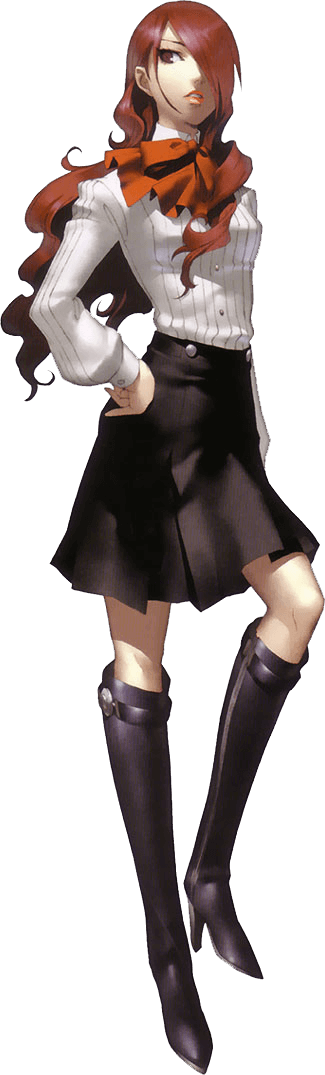
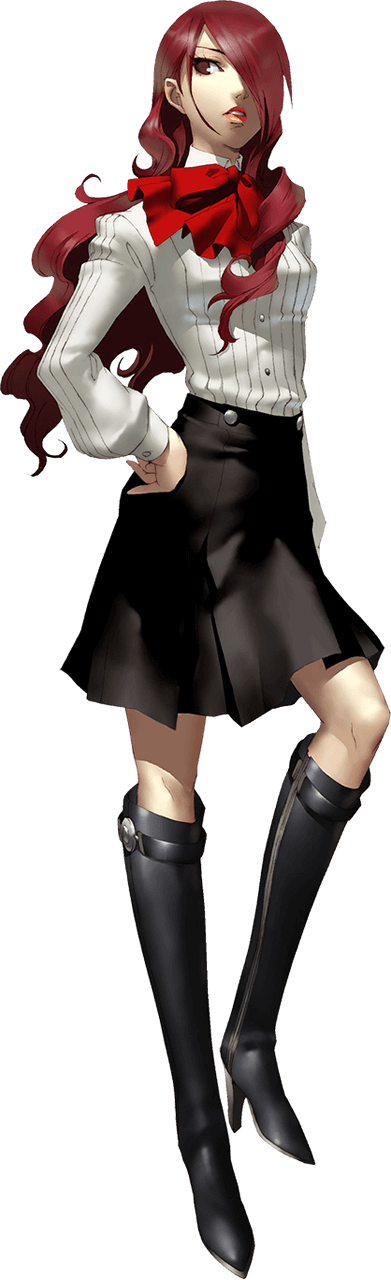
add new persona images
adds new character renders from persona 1, 2, and 3.

diff --git a/resources/images-list.min.js b/resources/images-list.min.js
@@ -1,1 +1,1 @@
-PS_Cover.Images.host="resources/images/",PS_Cover.Images.list={batman:{thumb:"batman-logo.png",images:["batman-00.png","batman-01.png","batman-02.png","batman-03.png","batman-04.png","batman-05.png","batman-06.png","batman-08.png","batman-09.png","batman-11.png","batman-12.png","catwoman-00.png","catwoman-01.png","catwoman-02.png","catwoman-03.png","harley_quinn-00.png","harley_quinn-01.png","harley_quinn-02.png","joker-00.png","joker-01.png","joker-02.png","joker-03.png","batmanw-00.jpg","batmanw-01.jpg","batmanw-02.jpg","batmanw-03.jpg","batmanw-04.jpg","batmanw-05.jpg","batmanw-06.jpg","batmanw-07.jpg","batmanw-08.jpg","batmanw-09.jpg","batmanw-10.jpg","batmanw-11.jpg","batmanw-12.jpg","batmanw-13.jpg","batmanw-14.jpg","batmanw-15.jpg","batmanw-16.jpg","batmanw-17.jpg","batmanw-18.jpg","batmanw-19.jpg","batmanw-20.jpg","batmanw-21.jpg","batmanw-22.jpg","batmanw-23.jpg","batmanw-24.jpg","batmanw-25.jpg","batmanw-26.jpg","batmanw-27.jpg","batmanw-29.jpg","batmanw-30.jpg"]},battlefield:{thumb:"bf-logo.png",images:["bf-00.png","bf-01.png","bf-02.png","bf-03.png","bf-05.png","bf-06.png","bf-07.png","bf-08.png","bf-09.png","bf-10.png","bf-11.png","bf-12.png","bfw-00.jpg","bfw-01.jpg","bfw-02.jpg","bfw-03.jpg","bfw-04.png","bfw-05.png","bfw-06.jpg","bfw-07.jpg","bfw-08.jpg","bfw-09.jpg","bfw-10.jpg","bfw-11.jpg","bfw-12.jpg","bfw-13.jpg","bfw-14.jpg","bfw-15.jpg","bfw-16.jpg","bfw-17.jpg","bfw-18.jpg"]},bloodborne:{thumb:"bb_logo.png",images:["bb-00.png","bb-01.png","bb-02.png","bb-03.png","bb-04.png","bb-05.png","bb-06.png","bb-07.png","bb-08.png","bb-09.png","bb-10.png","bb-11.png","bb-12.png","bb-13.png","bb-14.png","bb-15.png","bb-16.png","bb-17.png","bb-18.png","bb-19.png","bbw-00.jpg","bbw-01.jpg","bbw-02.jpg","bbw-03.jpg","bbw-04.jpg","bbw-05.jpg","bbw-06.jpg","bbw-07.jpg","bbw-08.jpg","bbw-09.jpg","bbw-10.jpg","bbw-12.jpg","bbw-13.jpg","bbw-14.jpg","bbw-15.jpg","bbw-16.jpg","bbw-17.jpg","bbw-18.jpg","bbw-19.jpg","bbw-20.jpg","bbw-22.jpg","bbw-23.jpg","bbw-24.jpg","bbw-25.jpg","bbw-26.jpg","bbw-28.jpg","bbw-29.jpg","bbw-31.jpg"]},"final-fantasy":{thumb:"ff-logo.png",images:["ff1-00.png","ff1-01.png","firrion-00.png","firrion-01.png","firrion-02.png","cloudofdarkness-00.png","kain-00.png","cecil-00.png","cecil-01.png","cecil-02.png","rosa-00.png","rydia-00.png","rydia-01.png","ff4-00.png","bartz-00.png","bartz-01.png","gilgamesh-ff5-00.png","gilgamesh-ff5-01.png","exdeath-00.png","terra-00.png","terra-01.png","terra-02.png","terra-03.png","terra-04.png","terra-05.png","kefka-00.png","kefka-01.png","kefka-02.png","ff6-00.png","aerith-00.png","aerith-01.png","aerith-02.png","aerith-03.png","barret-00.png","barret-01.png","caitsith-00.png","caitsith-01.png","cid-00.png","cid-01.png","cloud-00.png","cloud-01.png","cloud-02.png","cloud-03.png","cloud-04.png","cloud-05.png","cloud-06.png","genesis-00.png","red-00.png","sephiroth-00.png","sephiroth-01.png","sephiroth-02.png","sephiroth-03.png","sephiroth-04.png","tifa-00.png","tifa-01.png","tifa-02.png","tifa-03.png","tifa-04.png","tifa-05.png","vincent-00.png","vincent-01.png","vincent-02.png","vincent-03.png","vincent-04.png","yuffie-00.png","yuffie-01.png","yuffie-02.png","yuffie-03.png","zack-00.png","zack-01.png","zack-02.png","zack-03.png","zack-04.png","zack-05.png","ff7-00.png","ff7-01.png","ff7-02.png","seifer-00.png","squall-00.png","squall-01.png","squall-02.png","squall-03.png","squall-04.png","squall-05.png","squall-06.png","squall-07.png","squall-08.png","ff8-00.png","ff8-01.png","ff8-02.png","garnet-00.png","kuja-00.png","kuja-01.png","kuja-02.png","vivi-00.png","zidane-00.png","zidane-01.png","zidane-02.png","zidane-03.png","zidane-04.png","zidane-05.png","zidane-06.png","ff9-00.png","auron-00.png","auron-01.png","auron-02.png","auron-03.png","jecht-00.png","jecht-01.png","kimahri-00.png","lulu-00.png","lulu-01.png","lulu-02.png","lulu-03.png","paine-00.png","paine-01.png","paine-02.png","paine-03.png","paine-04.png","rikku-00.png","rikku-01.png","rikku-02.png","rikku-03.png","rikku-04.png","seymour-00.png","tidus-00.png","tidus-01.png","tidus-02.png","tidus-03.png","tidus-04.png","tidus-05.png","wakka-00.png","wakka-01.png","yuna-00.png","yuna-01.png","yuna-02.png","yuna-03.png","yuna-04.png","yuna-05.png","yuna-06.png","yuna-07.png","yuna-08.png","ff11-00.png","ff11-01.png","ff11-02.png","ff11-03.png","ff11-04.png","ff11-05.png","ff11-06.png","ashe-00.png","ashe-01.png","ashe-02.png","balthier-00.png","basch-00.png","fran-00.png","fran-01.png","fran-02.png","gabranth-00.png","larsa-00.png","penelo-00.png","penelo-01.png","rasler-00.png","vaan-00.png","vaan-01.png","vaan-02.png","vayne-00.png","ff12-00.png","ff12-01.png","ff12-02.png","caius-00.png","fang-00.png","fang-01.png","hope-00.png","hope-01.png","hope-02.png","hope-03.png","hope-04.png","hope-05.png","jihl-00.png","lightning-00.png","lightning-01.png","lightning-02.png","lightning-03.png","lightning-04.png","lightning-05.png","lightning-06.png","lightning-07.png","lightning-08.png","lightning-09.png","lightning-10.png","lightning-11.png","lightning-12.png","lightning-13.png","lightning-14.png","lightning-15.png","lightning-16.png","lightning-17.png","lumina-00.png","noel-00.png","noel-01.png","noel-02.png","sazh-00.png","serah-00.png","serah-01.png","serah-02.png","serah-03.png","serah-04.png","serah-05.png","serah-06.png","serah-07.png","serah-08.png","serah-09.png","snow-00.png","snow-01.png","snow-02.png","snow-03.png","snow-04.png","vanille-00.png","vanille-01.png","vanille-02.png","vanille-03.png","vanille-04.png","ff13-00.png","ff13-01.png","ff14-00.png","ff14-01.png","ff14-02.png","ff14-03.png","ff14-04.png","ff14-05.png","ff14-06.png","ff14-07.png","ff14-08.png","ff14-09.png","ardyn-00.png","ardyn-01.png","noctis-01.png","noctis-02.png","noctis-03.png","noctis-04.png","noctis-05.png","noctis-06.png","ff15-00.png","ff15-01.png","ace-00.png","ace-01.png","caetuna-00.png","cater-00.png","cater-01.png","cid-t0-00.png","cinque-00.png","deuce-00.png","eight-00.png","gilgamesh-t0-00.png","jack-00.png","king-00.png","machina-00.png","nimbus-00.png","nine-00.png","queen-00.png","rem-00.png","seven-00.png","seven-01.png","shiva-00.png","sice-00.png","sice-01.png","trey-00.png","trey-01.png","type0-00.png","ff3w-00.jpg","ff4w-00.jpg","ff5w-00.jpg","ff5w-01.png","ff5w-02.jpg","ff6w-00.jpg","ff6w-01.jpg","ff6w-02.jpg","ff6w-03.jpg","ff7w-00.jpg","ff7w-01.jpg","ff7w-02.jpg","ff7w-03.jpg","ff7w-04.jpg","ff7w-05.jpg","ff7w-06.jpg","ff8w-00.jpg","ff8w-01.jpg","ff8w-02.jpg","ff8w-03.jpg","ff8w-04.jpg","ff8w-05.jpg","ff8w-06.jpg","ff8w-07.jpg","ff8w-08.jpg","ff8w-09.jpg","ff8w-10.jpg","ff8w-11.jpg","ff9w-00.jpg","ff9w-01.jpg","ff9w-02.jpg","ff9w-03.jpg","ff9w-04.jpg","ff9w-05.jpg","ff9w-06.jpg","ff9w-07.jpg","ff9w-08.jpg","ff9w-09.jpg","ff10w-00.jpg","ff10w-01.jpg","ff10w-02.jpg","ff10w-03.jpg","ff10w-04.jpg","ff10w-05.jpg","ff10w-06.jpg","ff10w-07.jpg","ff10w-08.jpg","ff10w-09.jpg","ff10w-10.jpg","ff10w-11.jpg","ff10w-12.jpg","ff10w-13.jpg","ff10w-14.jpg","ff10w-15.jpg","ff11w-00.jpg","ff11w-01.jpg","ff11w-02.jpg","ff12w-00.jpg","ff12w-01.jpg","ff12w-02.jpg","ff12w-03.jpg","ff12w-04.jpg","ff12w-05.jpg","ff12w-06.jpg","ff12w-07.jpg","ff12w-08.jpg","ff12w-09.jpg","ff12w-10.jpg","ff12w-11.jpg","ff13w-00.jpg","ff13w-01.jpg","ff13w-02.jpg","ff13w-03.jpg","ff13w-04.jpg","ff13w-05.jpg","ff13w-06.jpg","ff13w-07.jpg","ff13w-08.jpg","ff13w-09.jpg","ff13w-10.jpg","ff13w-11.jpg","ff13w-12.jpg","ff14w-00.jpg","ff14w-01.jpg","ff14w-02.jpg","ff14w-03.jpg","ff14w-04.jpg","ff14w-05.jpg","ff14w-06.jpg","ff14w-07.jpg","ff14w-08.jpg","ff14w-09.jpg","ff14w-10.jpg","ff14w-11.jpg","ff14w-12.jpg","ff15w-00.jpg","ff15w-01.jpg","ff15w-02.jpg","ff15w-03.jpg","ff15w-04.jpg","ff15w-05.jpg","ff15w-06.jpg","ff15w-07.jpg","ff15w-08.jpg","ff15w-09.jpg","ff15w-10.jpg","ff15w-11.jpg","ff15w-12.jpg","type0w-00.jpg","type0w-01.jpg","type0w-02.jpg","type0w-03.jpg","type0w-04.jpg","type0w-05.jpg","type0w-06.jpg","type0w-07.png","type0w-08.jpg","type0w-09.jpg","type0w-10.jpg","type0w-11.jpg","type0w-12.jpg","type0w-13.jpg","ffdw-00.jpg","ffdw-01.jpg","ffdw-02.jpg","ffdw-03.jpg","fftw-00.jpg","fftw-01.jpg"]},"god-of-war":{thumb:"gow-logo.png",images:["kratos-00.png","kratos-01.png","kratos-02.png","kratos-03.png","kratos-04.png","kratos-05.png","kratos-06.png","kratos-07.png","kratos-08.png","kratos-09.png","kratos-10.png","kratos-11.png","gow-00.jpg","gow-01.jpg","gow-02.jpg","gow-03.jpg","gow-04.jpg","gow-05.jpg","gow-06.jpg","gow-07.jpg","gow-08.jpg","gow-09.jpg","gow-10.jpg","gow-11.jpg","gow-12.jpg","gow-13.jpg"]},"gran-turismo":{thumb:"gt-logo.png",images:["gt-00.png","gt-01.png","gt-02.png","gt-03.png","gt-04.png","gt-05.png","gt-06.png","gt-07.png","gt-08.png","gtw-00.jpg","gtw-01.jpg","gtw-02.jpg","gtw-03.jpg","gtw-04.jpg","gtw-05.jpg","gtw-06.jpg","gtw-07.jpg","gtw-08.jpg","gtw-09.jpg","gtw-10.jpg","gtw-11.jpg","gtw-12.jpg","gtw-13.jpg","gtw-14.jpg","gtw-15.jpg","gtw-16.jpg","gtw-17.jpg","gtw-18.jpg","gtw-19.jpg"]},"gravity-rush":{thumb:"gr-logo.png",images:["dusty-00.png","kat-00.png","kat-01.png","kat-02.png","kat-03.png","kat-04.png","kat-05.png","kat-06.png","kat-07.png","kat-08.png","kat-09.png","kat-10.png","kat-11.png","kat-12.png","raven-00.png","raven-01.png","raven-03.png","syd-00.png","syd-01.png","yunica-00.png","yunica-01.png","gr-00.png","grw-00.jpg","grw-01.jpg","grw-02.jpg","grw-03.jpg","grw-06.jpg","grw-07.jpg","grw-09.jpg","grw-11.jpg","grw-12.jpg","grw-14.jpg","grw-15.jpg","grw-16.jpg","grw-17.jpg","grw-18.jpg","grw-19.jpg","grw-20.jpg"]},infamous:{thumb:"if-logo.png",images:["cole-00.png","cole-01.png","cole-02.png","cole-03.png","cole-04.png","delsin-00.png","delsin-01.png","delsin-02.png","fetch-00.png","fetch-01.png","nix-00.png","reaper-00.png","if-00.jpg","if-01.jpg","if-02.jpg","if-03.jpg","if-04.jpg","if-05.jpg","if-06.jpg","if-07.jpg","if-08.jpg","if-09.jpg","if2-00.jpg","if3-00.jpg","if3-01.jpg","if3-02.jpg","if3-03.jpg","if3-04.jpg"]},killzone:{thumb:"kz-logo.png",images:["kz-00.png","kz-01.png","kz-02.png","kz-03.png","kz-04.png","kz-05.png","kz-06.png","kz-07.png","kz-08.png","kz-09.png","kz-10.png","kz-11.png","kz-12.png","kz-13.png","kz-14.png","kz-15.png","kz-16.png","kz-17.png","kz-18.png","kz-19.png","kz-20.png","kzw-00.jpg","kzw-01.jpg","kzw-02.jpg","kzw-04.jpg","kzw-05.jpg","kzw-06.jpg","kzw-07.jpg","kzw-08.jpg","kzw-09.jpg","kzw-10.jpg","kzw-11.jpg","kzw-12.jpg","kzw-13.jpg","kzw-14.jpg","kzw-15.jpg","kzw-16.jpg","kzw-17.jpg","kzw-18.jpg","kzw-19.jpg","kzw-20.jpg"]},"little-big-planet":{thumb:"lbp-logo.png",images:["lbp-00.png","lbp-01.png","lbp-02.png","lbp-03.png","lbp-04.png","lbp-05.png","lbp-06.png","lbp-07.png","lbp-08.png","lbp-09.png","lbp-10.png","lbp-11.png","lbp-12.png","lbp-13.png","lbp-14.png","lbp-15.png","lbp-16.png","lbp-17.png","lbp-18.png","lbpw-00.jpg","lbpw-01.jpg","lbpw-02.jpg","lbpw-03.jpg","lbpw-04.jpg","lbpw-05.jpg","lbpw-06.jpg","lbpw-07.jpg","lbpw-08.jpg","lbpw-09.jpg","lbpw-10.jpg"]},persona:{thumb:"persona-logo.png",images:["aigis-00.png","aigis-01.png","aigis-02.png","aigis-03.png","aigis-04.png","aigis-05.png","aigis-06.png","aigis-07.png","aigis-08.png","akihiko-00.png","chie-00.png","elizabeth-00.png","elizabeth-01.png","elizabeth-02.png","femc-00.png","izanagi-00.png","izanagi-01.png","izanagi-02.png","minato-00.png","mitsuru-00.png","mitsuru-01.png","mitsuru-02.png","yu-00.png","yu-01.png","yu-02.png","yu-03.png","yukari-00.png","misc-00.png","misc-01.png","p2w-00.jpg","p2w-01.jpg","p2w-02.jpg","p2w-03.jpg","p2w-04.jpg","p2w-05.jpg","p2w-06.jpg","p2w-07.jpg","p2w-08.jpg","p2w-09.jpg","p3w-00.jpg","p3w-01.jpg","p3w-02.jpg","p3w-03.jpg","p3w-04.jpg","p3w-05.png","p3w-06.jpg","p3w-07.jpg","p3w-08.png","p3w-09.jpg","p3w-10.jpg","p3w-11.jpg","p3w-12.jpg","p3w-13.png","p3w-14.jpg","p3w-15.jpg","p3w-16.jpg","p3w-17.jpg","p3w-18.jpg","p4w-00.jpg","p4w-01.jpg","p4w-03.jpg","p4w-04.jpg","p4w-05.jpg","p4w-06.jpg","p4w-07.jpg","p4w-08.jpg","p4w-09.jpg","p4w-10.jpg","p4w-11.jpg","p4w-12.jpg","p4w-13.jpg","p4w-15.jpg","p4w-16.jpg","p5w-00.jpg","p5w-01.png","p5w-02.jpg","p5w-03.jpg","p5w-04.jpg","p5w-05.jpg","p5w-06.jpg","p5w-07.jpg","p5w-08.jpg","p5w-09.jpg","p5w-10.jpg","p5w-11.jpg","p5w-12.jpg","p5w-13.jpg","p5w-14.jpg","p5w-15.jpg","p5w-16.jpg","p5w-17.jpg","p5w-18.jpg","p5w-19.jpg","p5w-20.jpg","p5w-21.jpg","p5w-22.jpg","p5w-23.jpg","p5w-24.jpg","p5w-25.jpg","p5w-26.jpg","p5w-27.jpg","p5w-28.jpg"]},"ratchet-and-clank":{thumb:"rac-logo.png",images:["ace-00.png","al-00.png","alister-01.png","clank-00.png","clank-01.png","clank-02.png","clank-03.png","courtney-00.png","courtney-01.png","merc-00.png","nefarious-00.png","nefarious-01.png","nefarious-02.png","qwark-00.png","qwark-01.png","qwark-02.png","qwark-03.png","qwark-04.png","ratchet-00.png","ratchet-02.png","ratchet-03.png","ratchet-04.png","ratchet-05.png","ratchet-06.png","ratchet-07.png","ratchet-08.png","skid-00.png","racw-00.jpg","racw-01.jpg","racw-02.jpg","racw-03.jpg","racw-04.jpg","racw-05.jpg","racw-06.jpg","racw-07.jpg","racw-08.jpg","racw-09.jpg","racw-10.jpg","racw-11.jpg","racw-12.jpg","racw-13.jpg","racw-14.jpg","racw-15.jpg","racw-16.jpg","racw-17.jpg","racw-18.jpg","racw-19.jpg"]},"street-fighter":{thumb:"sf-logo.png",images:["chun_li-00.png","chun_li-01.png","chun_li-02.png","chun_li-03.png","cody-00.png","juri-00.png","kazuya-00.png","ken-00.png","ken-01.png","ken-02.png","ken-03.png","ken-04.png","q-00.png","ryu-00.png","ryu-01.png","ryu-02.png","ryu-03.png","ryu-04.png","ryu-05.png","yang-00.png","yun-00.png","sfw-00.jpg","sfw-01.jpg","sfw-02.jpg","sfw-03.jpg","sfw-04.jpg","sfw-05.jpg","sfw-06.jpg","sfw-07.jpg","sfw-08.jpg","sfw-09.jpg","sfw-10.jpg","sfw-11.jpg","sfw-12.jpg","sfw-13.jpg","sfw-14.jpg"]},uncharted:{thumb:"uc-logo.png",images:["chloe-00.png","drake-00.png","drake-01.png","drake-02.png","eddy-00.png","elena-00.png","elena-01.png","flynn-00.png","sully-00.png","uc-00.jpg","uc2-00.jpg","uc2-01.jpg","uc2-02.jpg","uc3-00.jpg","uc3-01.jpg","uc3-02.jpg","uc4-00.jpg","uc4-01.jpg","uc4-02.jpg","uc4-03.jpg","uc4-04.jpg"]}};
+PS_Cover.Images.host="resources/images/",PS_Cover.Images.list={batman:{thumb:"batman-logo.png",images:["batman-00.png","batman-01.png","batman-02.png","batman-03.png","batman-04.png","batman-05.png","batman-06.png","batman-08.png","batman-09.png","batman-11.png","batman-12.png","catwoman-00.png","catwoman-01.png","catwoman-02.png","catwoman-03.png","harley_quinn-00.png","harley_quinn-01.png","harley_quinn-02.png","joker-00.png","joker-01.png","joker-02.png","joker-03.png","batmanw-00.jpg","batmanw-01.jpg","batmanw-02.jpg","batmanw-03.jpg","batmanw-04.jpg","batmanw-05.jpg","batmanw-06.jpg","batmanw-07.jpg","batmanw-08.jpg","batmanw-09.jpg","batmanw-10.jpg","batmanw-11.jpg","batmanw-12.jpg","batmanw-13.jpg","batmanw-14.jpg","batmanw-15.jpg","batmanw-16.jpg","batmanw-17.jpg","batmanw-18.jpg","batmanw-19.jpg","batmanw-20.jpg","batmanw-21.jpg","batmanw-22.jpg","batmanw-23.jpg","batmanw-24.jpg","batmanw-25.jpg","batmanw-26.jpg","batmanw-27.jpg","batmanw-29.jpg","batmanw-30.jpg"]},battlefield:{thumb:"bf-logo.png",images:["bf-00.png","bf-01.png","bf-02.png","bf-03.png","bf-05.png","bf-06.png","bf-07.png","bf-08.png","bf-09.png","bf-10.png","bf-11.png","bf-12.png","bfw-00.jpg","bfw-01.jpg","bfw-02.jpg","bfw-03.jpg","bfw-04.png","bfw-05.png","bfw-06.jpg","bfw-07.jpg","bfw-08.jpg","bfw-09.jpg","bfw-10.jpg","bfw-11.jpg","bfw-12.jpg","bfw-13.jpg","bfw-14.jpg","bfw-15.jpg","bfw-16.jpg","bfw-17.jpg","bfw-18.jpg"]},bloodborne:{thumb:"bb_logo.png",images:["bb-00.png","bb-01.png","bb-02.png","bb-03.png","bb-04.png","bb-05.png","bb-06.png","bb-07.png","bb-08.png","bb-09.png","bb-10.png","bb-11.png","bb-12.png","bb-13.png","bb-14.png","bb-15.png","bb-16.png","bb-17.png","bb-18.png","bb-19.png","bbw-00.jpg","bbw-01.jpg","bbw-02.jpg","bbw-03.jpg","bbw-04.jpg","bbw-05.jpg","bbw-06.jpg","bbw-07.jpg","bbw-08.jpg","bbw-09.jpg","bbw-10.jpg","bbw-12.jpg","bbw-13.jpg","bbw-14.jpg","bbw-15.jpg","bbw-16.jpg","bbw-17.jpg","bbw-18.jpg","bbw-19.jpg","bbw-20.jpg","bbw-22.jpg","bbw-23.jpg","bbw-24.jpg","bbw-25.jpg","bbw-26.jpg","bbw-28.jpg","bbw-29.jpg","bbw-31.jpg"]},"final-fantasy":{thumb:"ff-logo.png",images:["ff1-00.png","ff1-01.png","firrion-00.png","firrion-01.png","firrion-02.png","cloudofdarkness-00.png","kain-00.png","cecil-00.png","cecil-01.png","cecil-02.png","rosa-00.png","rydia-00.png","rydia-01.png","ff4-00.png","bartz-00.png","bartz-01.png","gilgamesh-ff5-00.png","gilgamesh-ff5-01.png","exdeath-00.png","terra-00.png","terra-01.png","terra-02.png","terra-03.png","terra-04.png","terra-05.png","kefka-00.png","kefka-01.png","kefka-02.png","ff6-00.png","aerith-00.png","aerith-01.png","aerith-02.png","aerith-03.png","barret-00.png","barret-01.png","caitsith-00.png","caitsith-01.png","cid-00.png","cid-01.png","cloud-00.png","cloud-01.png","cloud-02.png","cloud-03.png","cloud-04.png","cloud-05.png","cloud-06.png","genesis-00.png","red-00.png","sephiroth-00.png","sephiroth-01.png","sephiroth-02.png","sephiroth-03.png","sephiroth-04.png","tifa-00.png","tifa-01.png","tifa-02.png","tifa-03.png","tifa-04.png","tifa-05.png","vincent-00.png","vincent-01.png","vincent-02.png","vincent-03.png","vincent-04.png","yuffie-00.png","yuffie-01.png","yuffie-02.png","yuffie-03.png","zack-00.png","zack-01.png","zack-02.png","zack-03.png","zack-04.png","zack-05.png","ff7-00.png","ff7-01.png","ff7-02.png","seifer-00.png","squall-00.png","squall-01.png","squall-02.png","squall-03.png","squall-04.png","squall-05.png","squall-06.png","squall-07.png","squall-08.png","ff8-00.png","ff8-01.png","ff8-02.png","garnet-00.png","kuja-00.png","kuja-01.png","kuja-02.png","vivi-00.png","zidane-00.png","zidane-01.png","zidane-02.png","zidane-03.png","zidane-04.png","zidane-05.png","zidane-06.png","ff9-00.png","auron-00.png","auron-01.png","auron-02.png","auron-03.png","jecht-00.png","jecht-01.png","kimahri-00.png","lulu-00.png","lulu-01.png","lulu-02.png","lulu-03.png","paine-00.png","paine-01.png","paine-02.png","paine-03.png","paine-04.png","rikku-00.png","rikku-01.png","rikku-02.png","rikku-03.png","rikku-04.png","seymour-00.png","tidus-00.png","tidus-01.png","tidus-02.png","tidus-03.png","tidus-04.png","tidus-05.png","wakka-00.png","wakka-01.png","yuna-00.png","yuna-01.png","yuna-02.png","yuna-03.png","yuna-04.png","yuna-05.png","yuna-06.png","yuna-07.png","yuna-08.png","ff11-00.png","ff11-01.png","ff11-02.png","ff11-03.png","ff11-04.png","ff11-05.png","ff11-06.png","ashe-00.png","ashe-01.png","ashe-02.png","balthier-00.png","basch-00.png","fran-00.png","fran-01.png","fran-02.png","gabranth-00.png","larsa-00.png","penelo-00.png","penelo-01.png","rasler-00.png","vaan-00.png","vaan-01.png","vaan-02.png","vayne-00.png","ff12-00.png","ff12-01.png","ff12-02.png","caius-00.png","fang-00.png","fang-01.png","hope-00.png","hope-01.png","hope-02.png","hope-03.png","hope-04.png","hope-05.png","jihl-00.png","lightning-00.png","lightning-01.png","lightning-02.png","lightning-03.png","lightning-04.png","lightning-05.png","lightning-06.png","lightning-07.png","lightning-08.png","lightning-09.png","lightning-10.png","lightning-11.png","lightning-12.png","lightning-13.png","lightning-14.png","lightning-15.png","lightning-16.png","lightning-17.png","lumina-00.png","noel-00.png","noel-01.png","noel-02.png","sazh-00.png","serah-00.png","serah-01.png","serah-02.png","serah-03.png","serah-04.png","serah-05.png","serah-06.png","serah-07.png","serah-08.png","serah-09.png","snow-00.png","snow-01.png","snow-02.png","snow-03.png","snow-04.png","vanille-00.png","vanille-01.png","vanille-02.png","vanille-03.png","vanille-04.png","ff13-00.png","ff13-01.png","ff14-00.png","ff14-01.png","ff14-02.png","ff14-03.png","ff14-04.png","ff14-05.png","ff14-06.png","ff14-07.png","ff14-08.png","ff14-09.png","ardyn-00.png","ardyn-01.png","noctis-01.png","noctis-02.png","noctis-03.png","noctis-04.png","noctis-05.png","noctis-06.png","ff15-00.png","ff15-01.png","ace-00.png","ace-01.png","caetuna-00.png","cater-00.png","cater-01.png","cid-t0-00.png","cinque-00.png","deuce-00.png","eight-00.png","gilgamesh-t0-00.png","jack-00.png","king-00.png","machina-00.png","nimbus-00.png","nine-00.png","queen-00.png","rem-00.png","seven-00.png","seven-01.png","shiva-00.png","sice-00.png","sice-01.png","trey-00.png","trey-01.png","type0-00.png","ff3w-00.jpg","ff4w-00.jpg","ff5w-00.jpg","ff5w-01.png","ff5w-02.jpg","ff6w-00.jpg","ff6w-01.jpg","ff6w-02.jpg","ff6w-03.jpg","ff7w-00.jpg","ff7w-01.jpg","ff7w-02.jpg","ff7w-03.jpg","ff7w-04.jpg","ff7w-05.jpg","ff7w-06.jpg","ff8w-00.jpg","ff8w-01.jpg","ff8w-02.jpg","ff8w-03.jpg","ff8w-04.jpg","ff8w-05.jpg","ff8w-06.jpg","ff8w-07.jpg","ff8w-08.jpg","ff8w-09.jpg","ff8w-10.jpg","ff8w-11.jpg","ff9w-00.jpg","ff9w-01.jpg","ff9w-02.jpg","ff9w-03.jpg","ff9w-04.jpg","ff9w-05.jpg","ff9w-06.jpg","ff9w-07.jpg","ff9w-08.jpg","ff9w-09.jpg","ff10w-00.jpg","ff10w-01.jpg","ff10w-02.jpg","ff10w-03.jpg","ff10w-04.jpg","ff10w-05.jpg","ff10w-06.jpg","ff10w-07.jpg","ff10w-08.jpg","ff10w-09.jpg","ff10w-10.jpg","ff10w-11.jpg","ff10w-12.jpg","ff10w-13.jpg","ff10w-14.jpg","ff10w-15.jpg","ff11w-00.jpg","ff11w-01.jpg","ff11w-02.jpg","ff12w-00.jpg","ff12w-01.jpg","ff12w-02.jpg","ff12w-03.jpg","ff12w-04.jpg","ff12w-05.jpg","ff12w-06.jpg","ff12w-07.jpg","ff12w-08.jpg","ff12w-09.jpg","ff12w-10.jpg","ff12w-11.jpg","ff13w-00.jpg","ff13w-01.jpg","ff13w-02.jpg","ff13w-03.jpg","ff13w-04.jpg","ff13w-05.jpg","ff13w-06.jpg","ff13w-07.jpg","ff13w-08.jpg","ff13w-09.jpg","ff13w-10.jpg","ff13w-11.jpg","ff13w-12.jpg","ff14w-00.jpg","ff14w-01.jpg","ff14w-02.jpg","ff14w-03.jpg","ff14w-04.jpg","ff14w-05.jpg","ff14w-06.jpg","ff14w-07.jpg","ff14w-08.jpg","ff14w-09.jpg","ff14w-10.jpg","ff14w-11.jpg","ff14w-12.jpg","ff15w-00.jpg","ff15w-01.jpg","ff15w-02.jpg","ff15w-03.jpg","ff15w-04.jpg","ff15w-05.jpg","ff15w-06.jpg","ff15w-07.jpg","ff15w-08.jpg","ff15w-09.jpg","ff15w-10.jpg","ff15w-11.jpg","ff15w-12.jpg","type0w-00.jpg","type0w-01.jpg","type0w-02.jpg","type0w-03.jpg","type0w-04.jpg","type0w-05.jpg","type0w-06.jpg","type0w-07.png","type0w-08.jpg","type0w-09.jpg","type0w-10.jpg","type0w-11.jpg","type0w-12.jpg","type0w-13.jpg","ffdw-00.jpg","ffdw-01.jpg","ffdw-02.jpg","ffdw-03.jpg","fftw-00.jpg","fftw-01.jpg"]},"god-of-war":{thumb:"gow-logo.png",images:["kratos-00.png","kratos-01.png","kratos-02.png","kratos-03.png","kratos-04.png","kratos-05.png","kratos-06.png","kratos-07.png","kratos-08.png","kratos-09.png","kratos-10.png","kratos-11.png","gow-00.jpg","gow-01.jpg","gow-02.jpg","gow-03.jpg","gow-04.jpg","gow-05.jpg","gow-06.jpg","gow-07.jpg","gow-08.jpg","gow-09.jpg","gow-10.jpg","gow-11.jpg","gow-12.jpg","gow-13.jpg"]},"gran-turismo":{thumb:"gt-logo.png",images:["gt-00.png","gt-01.png","gt-02.png","gt-03.png","gt-04.png","gt-05.png","gt-06.png","gt-07.png","gt-08.png","gtw-00.jpg","gtw-01.jpg","gtw-02.jpg","gtw-03.jpg","gtw-04.jpg","gtw-05.jpg","gtw-06.jpg","gtw-07.jpg","gtw-08.jpg","gtw-09.jpg","gtw-10.jpg","gtw-11.jpg","gtw-12.jpg","gtw-13.jpg","gtw-14.jpg","gtw-15.jpg","gtw-16.jpg","gtw-17.jpg","gtw-18.jpg","gtw-19.jpg"]},"gravity-rush":{thumb:"gr-logo.png",images:["dusty-00.png","kat-00.png","kat-01.png","kat-02.png","kat-03.png","kat-04.png","kat-05.png","kat-06.png","kat-07.png","kat-08.png","kat-09.png","kat-10.png","kat-11.png","kat-12.png","raven-00.png","raven-01.png","raven-03.png","syd-00.png","syd-01.png","yunica-00.png","yunica-01.png","gr-00.png","grw-00.jpg","grw-01.jpg","grw-02.jpg","grw-03.jpg","grw-06.jpg","grw-07.jpg","grw-09.jpg","grw-11.jpg","grw-12.jpg","grw-14.jpg","grw-15.jpg","grw-16.jpg","grw-17.jpg","grw-18.jpg","grw-19.jpg","grw-20.jpg"]},infamous:{thumb:"if-logo.png",images:["cole-00.png","cole-01.png","cole-02.png","cole-03.png","cole-04.png","delsin-00.png","delsin-01.png","delsin-02.png","fetch-00.png","fetch-01.png","nix-00.png","reaper-00.png","if-00.jpg","if-01.jpg","if-02.jpg","if-03.jpg","if-04.jpg","if-05.jpg","if-06.jpg","if-07.jpg","if-08.jpg","if-09.jpg","if2-00.jpg","if3-00.jpg","if3-01.jpg","if3-02.jpg","if3-03.jpg","if3-04.jpg"]},killzone:{thumb:"kz-logo.png",images:["kz-00.png","kz-01.png","kz-02.png","kz-03.png","kz-04.png","kz-05.png","kz-06.png","kz-07.png","kz-08.png","kz-09.png","kz-10.png","kz-11.png","kz-12.png","kz-13.png","kz-14.png","kz-15.png","kz-16.png","kz-17.png","kz-18.png","kz-19.png","kz-20.png","kzw-00.jpg","kzw-01.jpg","kzw-02.jpg","kzw-04.jpg","kzw-05.jpg","kzw-06.jpg","kzw-07.jpg","kzw-08.jpg","kzw-09.jpg","kzw-10.jpg","kzw-11.jpg","kzw-12.jpg","kzw-13.jpg","kzw-14.jpg","kzw-15.jpg","kzw-16.jpg","kzw-17.jpg","kzw-18.jpg","kzw-19.jpg","kzw-20.jpg"]},"little-big-planet":{thumb:"lbp-logo.png",images:["lbp-00.png","lbp-01.png","lbp-02.png","lbp-03.png","lbp-04.png","lbp-05.png","lbp-06.png","lbp-07.png","lbp-08.png","lbp-09.png","lbp-10.png","lbp-11.png","lbp-12.png","lbp-13.png","lbp-14.png","lbp-15.png","lbp-16.png","lbp-17.png","lbp-18.png","lbpw-00.jpg","lbpw-01.jpg","lbpw-02.jpg","lbpw-03.jpg","lbpw-04.jpg","lbpw-05.jpg","lbpw-06.jpg","lbpw-07.jpg","lbpw-08.jpg","lbpw-09.jpg","lbpw-10.jpg"]},persona:{thumb:"persona-logo.png",images:["eriko-00.png","eriko-01.png","hidehiko-00.png","hidehiko-01.png","maki-00.png","maki-01.png","masao-00.png","masao-01.png","nanjo-00.png","nanjo-01.png","nanjo-02.png","naoya-00.png","naoya-01.png","reiji-00.png","reiji-01.png","trish-00.png","yuka-00.png","yukino-00.png","yukino-01.png","yukino-02.png","eikichi-00.png","eikichi-01.png","eikichi-02.png","eikichi-03.png","joker-00.png","jun-00.png","jun-01.png","jun-02.png","jun-03.png","lisa-00.png","lisa-01.png","lisa-02.png","lisa-03.png","lisa-04.png","maya-00.png","maya-01.png","maya-02.png","maya-03.png","maya-04.png","tatsuya-00.png","tatsuya-01.png","tatsuya-02.png","tatsuya-03.png","tatsuya-04.png","tatsuya-05.png","apollo-00.png","maia-00.png","aigis-00.png","aigis-01.png","aigis-02.png","aigis-03.png","aigis-04.png","aigis-05.png","aigis-06.png","aigis-07.png","aigis-08.png","aigis-09.png","aigis-10.png","aigis-11.png","aigis-12.png","aigis-13.png","aigis-14.png","akihiko-00.png","akihiko-01.png","akihiko-02.png","akihiko-03.png","akihiko-04.png","akihiko-05.png","akihiko-06.png","akihiko-07.png","chidori-00.png","chidori-01.png","chidori-02.png","elizabeth-00.png","elizabeth-01.png","elizabeth-02.png","elizabeth-03.png","elizabeth-04.png","elizabeth-05.png","femc-00.png","femc-02.png","femc-03.png","femc-04.png","fuuka-00.png","fuuka-01.png","fuuka-02.png","junpei-00.png","junpei-01.png","junpei-02.png","junpei-03.png","ken-00.png","ken-01.png","ken-02.png","ken-03.png","koromaru-00.png","koromaru-01.png","koromaru-02.png","metis-00.png","minato-00.png","minato-01.png","minato-02.png","minato-03.png","minato-04.png","minato-05.png","minato-06.png","minato-07.png","minato-08.png","minato-09.png","mitsuru-00.png","mitsuru-01.png","mitsuru-02.png","mitsuru-03.png","mitsuru-04.png","mitsuru-05.png","mitsuru-06.png","ryoji-00.png","ryoji-01.png","shinjiro-00.png","shinjiro-01.png","theo-00.png","theo-01.png","yukari-00.png","yukari-01.png","yukari-02.png","yukari-04.png","orpheus-00.png","thantos-00.png","misc-02.png","misc-03.png","misc-04.png","misc-05.png","chie-00.png","izanagi-00.png","izanagi-01.png","izanagi-02.png","yu-00.png","yu-01.png","yu-02.png","yu-03.png","misc-00.png","misc-01.png","p2w-00.jpg","p2w-01.jpg","p2w-02.jpg","p2w-03.jpg","p2w-04.jpg","p2w-05.jpg","p2w-06.jpg","p2w-07.jpg","p2w-08.jpg","p2w-09.jpg","p3w-00.jpg","p3w-01.jpg","p3w-02.jpg","p3w-03.jpg","p3w-04.jpg","p3w-05.png","p3w-06.jpg","p3w-07.jpg","p3w-08.png","p3w-09.jpg","p3w-10.jpg","p3w-11.jpg","p3w-12.jpg","p3w-13.png","p3w-14.jpg","p3w-15.jpg","p3w-16.jpg","p3w-17.jpg","p3w-18.jpg","p4w-00.jpg","p4w-01.jpg","p4w-03.jpg","p4w-04.jpg","p4w-05.jpg","p4w-06.jpg","p4w-07.jpg","p4w-08.jpg","p4w-09.jpg","p4w-10.jpg","p4w-11.jpg","p4w-12.jpg","p4w-13.jpg","p4w-15.jpg","p4w-16.jpg","p5w-00.jpg","p5w-01.png","p5w-02.jpg","p5w-03.jpg","p5w-04.jpg","p5w-05.jpg","p5w-06.jpg","p5w-07.jpg","p5w-08.jpg","p5w-09.jpg","p5w-10.jpg","p5w-11.jpg","p5w-12.jpg","p5w-13.jpg","p5w-14.jpg","p5w-15.jpg","p5w-16.jpg","p5w-17.jpg","p5w-18.jpg","p5w-19.jpg","p5w-20.jpg","p5w-21.jpg","p5w-22.jpg","p5w-23.jpg","p5w-24.jpg","p5w-25.jpg","p5w-26.jpg","p5w-27.jpg","p5w-28.jpg"]},"ratchet-and-clank":{thumb:"rac-logo.png",images:["ace-00.png","al-00.png","alister-01.png","clank-00.png","clank-01.png","clank-02.png","clank-03.png","courtney-00.png","courtney-01.png","merc-00.png","nefarious-00.png","nefarious-01.png","nefarious-02.png","qwark-00.png","qwark-01.png","qwark-02.png","qwark-03.png","qwark-04.png","ratchet-00.png","ratchet-02.png","ratchet-03.png","ratchet-04.png","ratchet-05.png","ratchet-06.png","ratchet-07.png","ratchet-08.png","skid-00.png","racw-00.jpg","racw-01.jpg","racw-02.jpg","racw-03.jpg","racw-04.jpg","racw-05.jpg","racw-06.jpg","racw-07.jpg","racw-08.jpg","racw-09.jpg","racw-10.jpg","racw-11.jpg","racw-12.jpg","racw-13.jpg","racw-14.jpg","racw-15.jpg","racw-16.jpg","racw-17.jpg","racw-18.jpg","racw-19.jpg"]},"street-fighter":{thumb:"sf-logo.png",images:["chun_li-00.png","chun_li-01.png","chun_li-02.png","chun_li-03.png","cody-00.png","juri-00.png","kazuya-00.png","ken-00.png","ken-01.png","ken-02.png","ken-03.png","ken-04.png","q-00.png","ryu-00.png","ryu-01.png","ryu-02.png","ryu-03.png","ryu-04.png","ryu-05.png","yang-00.png","yun-00.png","sfw-00.jpg","sfw-01.jpg","sfw-02.jpg","sfw-03.jpg","sfw-04.jpg","sfw-05.jpg","sfw-06.jpg","sfw-07.jpg","sfw-08.jpg","sfw-09.jpg","sfw-10.jpg","sfw-11.jpg","sfw-12.jpg","sfw-13.jpg","sfw-14.jpg"]},uncharted:{thumb:"uc-logo.png",images:["chloe-00.png","drake-00.png","drake-01.png","drake-02.png","eddy-00.png","elena-00.png","elena-01.png","flynn-00.png","sully-00.png","uc-00.jpg","uc2-00.jpg","uc2-01.jpg","uc2-02.jpg","uc3-00.jpg","uc3-01.jpg","uc3-02.jpg","uc4-00.jpg","uc4-01.jpg","uc4-02.jpg","uc4-03.jpg","uc4-04.jpg"]}};

diff --git a/resources/images-list.js b/resources/images-list.js
@@ -956,6 +956,72 @@ PS_Cover.Images.list = {
     thumb : 'persona-logo.png',
     images : [
       // # RENDERS
+      // PERSONA 1
+      // Eriko
+      'eriko-00.png',
+      'eriko-01.png',
+      // Hidehiko
+      'hidehiko-00.png',
+      'hidehiko-01.png',
+      // Maki
+      'maki-00.png',
+      'maki-01.png',
+      // Masao
+      'masao-00.png',
+      'masao-01.png',
+      // Nanjo
+      'nanjo-00.png',
+      'nanjo-01.png',
+      'nanjo-02.png',
+      // Naoya (MC)
+      'naoya-00.png',
+      'naoya-01.png',
+      // Reiji
+      'reiji-00.png',
+      'reiji-01.png',
+      // Trish
+      'trish-00.png',
+      // Yuka
+      'yuka-00.png',
+      // Yukino
+      'yukino-00.png',
+      'yukino-01.png',
+      'yukino-02.png',
+      // PERSONA 2
+      // Eikichi
+      'eikichi-00.png',
+      'eikichi-01.png',
+      'eikichi-02.png',
+      'eikichi-03.png',
+      // Jun
+      'joker-00.png',
+      'jun-00.png',
+      'jun-01.png',
+      'jun-02.png',
+      'jun-03.png',
+      // Lisa
+      'lisa-00.png',
+      'lisa-01.png',
+      'lisa-02.png',
+      'lisa-03.png',
+      'lisa-04.png',
+      // Maya
+      'maya-00.png',
+      'maya-01.png',
+      'maya-02.png',
+      'maya-03.png',
+      'maya-04.png',
+      // Tatsuya
+      'tatsuya-00.png',
+      'tatsuya-01.png',
+      'tatsuya-02.png',
+      'tatsuya-03.png',
+      'tatsuya-04.png',
+      'tatsuya-05.png',
+      // Personas
+      'apollo-00.png',
+      'maia-00.png',
+      // PERSONA 3
       // Aigis
       'aigis-00.png',
       'aigis-01.png',
@@ -966,34 +1032,113 @@ PS_Cover.Images.list = {
       'aigis-06.png',
       'aigis-07.png',
       'aigis-08.png',
+      'aigis-09.png',
+      'aigis-10.png',
+      'aigis-11.png',
+      'aigis-12.png',
+      'aigis-13.png',
+      'aigis-14.png',
       // Akihiko
       'akihiko-00.png',
-      // Chie
-      'chie-00.png',
+      'akihiko-01.png',
+      'akihiko-02.png',
+      'akihiko-03.png',
+      'akihiko-04.png',
+      'akihiko-05.png',
+      'akihiko-06.png',
+      'akihiko-07.png',
+      // Chidori
+      'chidori-00.png',
+      'chidori-01.png',
+      'chidori-02.png',
       // Elizabeth
       'elizabeth-00.png',
       'elizabeth-01.png',
       'elizabeth-02.png',
+      'elizabeth-03.png',
+      'elizabeth-04.png',
+      'elizabeth-05.png',
       // FeMC
       'femc-00.png',
-      // Izanagi
-      'izanagi-00.png',
-      'izanagi-01.png',
-      'izanagi-02.png',
+      'femc-02.png',
+      'femc-03.png',
+      'femc-04.png',
+      // Fuuka
+      'fuuka-00.png',
+      'fuuka-01.png',
+      'fuuka-02.png',
+      // Junpei
+      'junpei-00.png',
+      'junpei-01.png',
+      'junpei-02.png',
+      'junpei-03.png',
+      // Ken
+      'ken-00.png',
+      'ken-01.png',
+      'ken-02.png',
+      'ken-03.png',
+      // Koromaru
+      'koromaru-00.png',
+      'koromaru-01.png',
+      'koromaru-02.png',
+      // Metis
+      'metis-00.png',
       // Minato
       'minato-00.png',
+      'minato-01.png',
+      'minato-02.png',
+      'minato-03.png',
+      'minato-04.png',
+      'minato-05.png',
+      'minato-06.png',
+      'minato-07.png',
+      'minato-08.png',
+      'minato-09.png',
       // Mitsuru
       'mitsuru-00.png',
       'mitsuru-01.png',
       'mitsuru-02.png',
+      'mitsuru-03.png',
+      'mitsuru-04.png',
+      'mitsuru-05.png',
+      'mitsuru-06.png',
+      // Ryoji
+      'ryoji-00.png',
+      'ryoji-01.png',
+      // Shinjiro
+      'shinjiro-00.png',
+      'shinjiro-01.png',
+      // Theo
+      'theo-00.png',
+      'theo-01.png',
+      // Yukari
+      'yukari-00.png',
+      'yukari-01.png',
+      'yukari-02.png',
+      'yukari-04.png',
+      // Personas
+      'orpheus-00.png',
+      'thantos-00.png',
+      // Misc
+      'misc-02.png',
+      'misc-03.png',
+      'misc-04.png',
+      'misc-05.png',
+      // PERSONA 4
+      // Chie
+      'chie-00.png',
+      // Izanagi
+      'izanagi-00.png',
+      'izanagi-01.png',
+      'izanagi-02.png',
       // Yu
       'yu-00.png',
       'yu-01.png',
       'yu-02.png',
       'yu-03.png',
-      // Yukari
-      'yukari-00.png',
-      // Misc
+      // PERSONA 5
+
+      // MISC
       'misc-00.png',
       'misc-01.png',
 
